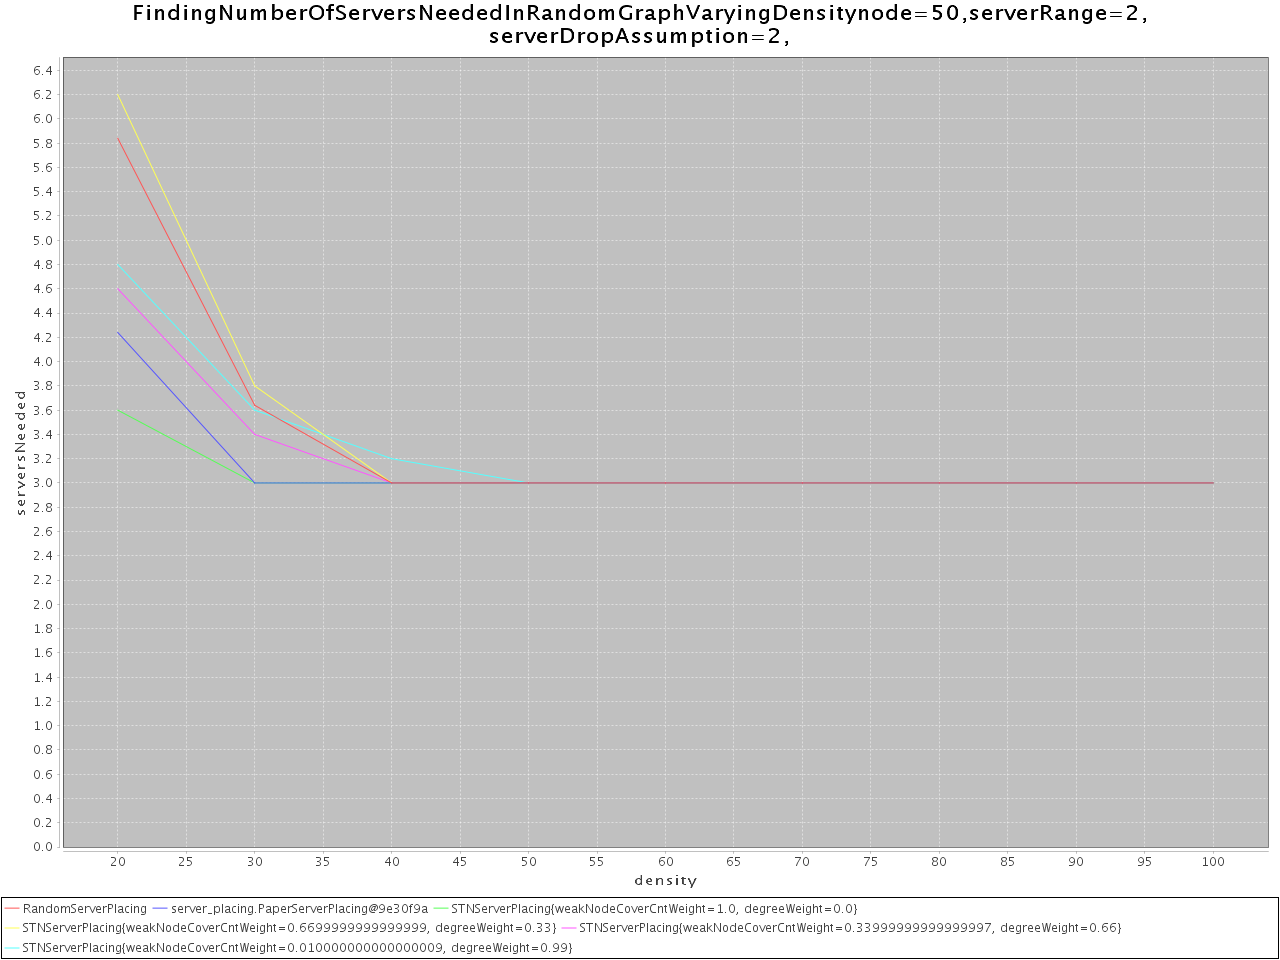
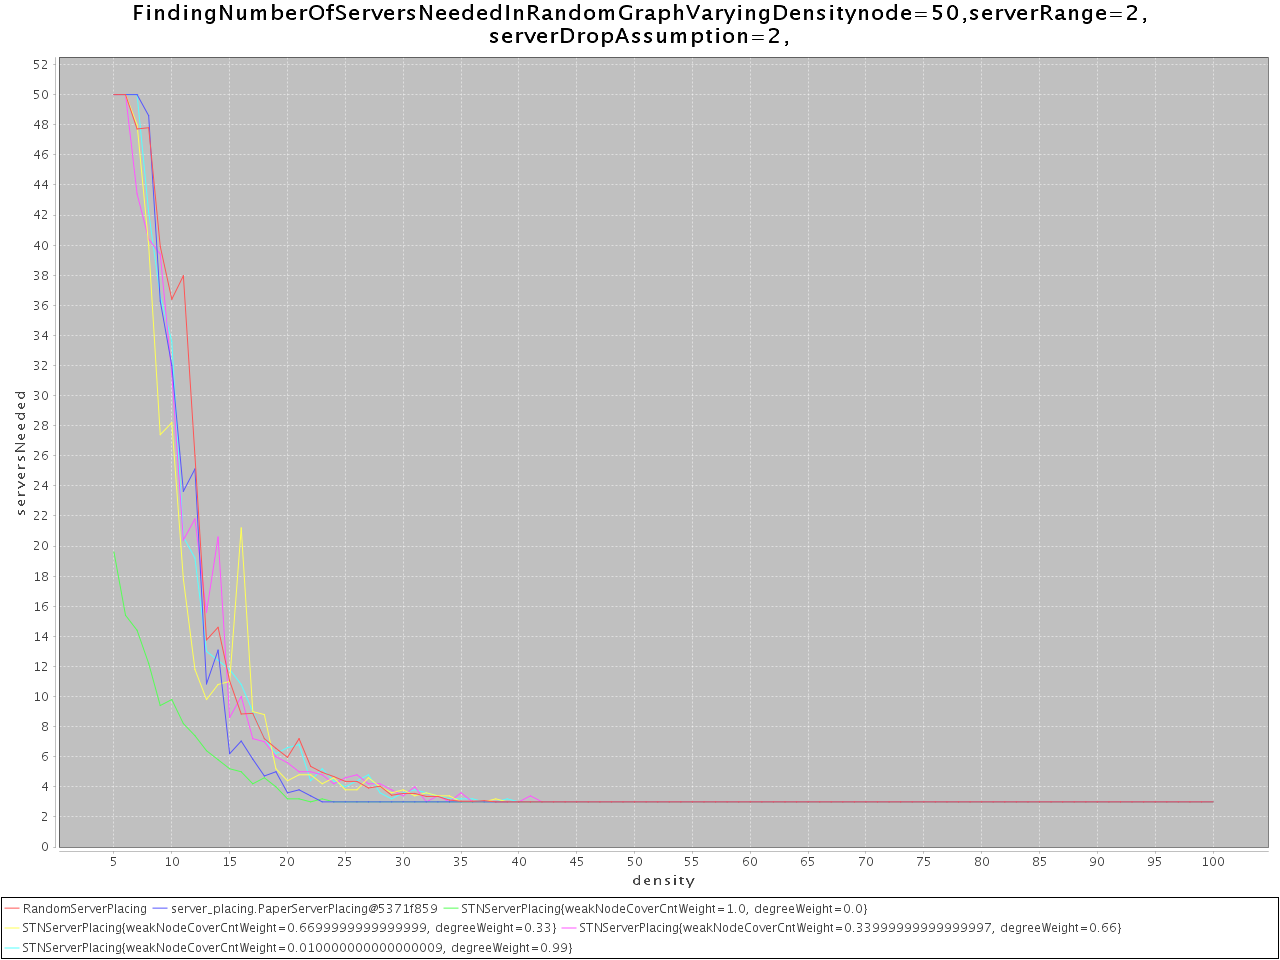
Incorporated Tonmoy's implementation of HybridServerPlacing. I have run simulation with the new algo. Our algorithm is better than this algorithm in almost all cases.

diff --git a/Undergrad Thesis Code/src/driver/Driver.java b/Undergrad Thesis Code/src/driver/Driver.java
@@ -16,41 +16,38 @@ public class Driver {
         int serverRange;
         Experiment experiment;
 
-//        serverRange = 1;
-//        experiment = ExperimentFactory.getFindingNumberOfServersNeededInWheelVaryingNodeCnt(serverRange);
-//        experiment.doExperimentAndSaveChartAsImage();
-//
-//
-//
-//
-//
-//
-//        serverRange = 1;
-//        experiment = ExperimentFactory.getFindingNumberOfServersNeededInStarVaryingNodeCnt(serverRange);
-//        experiment.doExperimentAndSaveChartAsImage();
-//
-//
-//        serverRange = 5;
-//        experiment = ExperimentFactory.getFindingNumberOfServersNeededInCycleVaryingNodeCnt(serverRange);
-//        experiment.doExperimentAndSaveChartAsImage();
-//
-//
-//
-//        serverRange = 5;
-//        experiment = ExperimentFactory.getFindingNumberOfServersNeededInTreeVaryingNode(serverRange);
-//        experiment.doExperimentAndSaveChartAsImage();
+        serverRange = 1;
+        experiment = ExperimentFactory.getFindingNumberOfServersNeededInWheelVaryingNodeCnt(serverRange);
+        experiment.doExperimentAndSaveChartAsImage();
+
+
+
+        serverRange = 1;
+        experiment = ExperimentFactory.getFindingNumberOfServersNeededInStarVaryingNodeCnt(serverRange);
+        experiment.doExperimentAndSaveChartAsImage();
+
+
+        serverRange = 5;
+        experiment = ExperimentFactory.getFindingNumberOfServersNeededInCycleVaryingNodeCnt(serverRange);
+        experiment.doExperimentAndSaveChartAsImage();
+
+
+
+        serverRange = 5;
+        experiment = ExperimentFactory.getFindingNumberOfServersNeededInTreeVaryingNode(serverRange);
+        experiment.doExperimentAndSaveChartAsImage();
 
 
 
 
 
-        serverRange = 2;
-        for (int nodeCnt = 50; nodeCnt <= 200; nodeCnt += 25)
-        {
-            experiment =
-                    ExperimentFactory.getFindingNumberOfServersNeededInRandomGraphVaryingDensity(nodeCnt, serverRange);
-            experiment.doExperimentAndSaveChartAsImage();
-        }
+//        serverRange = 2;
+//        for (int nodeCnt = 50; nodeCnt <= 200; nodeCnt += 25)
+//        {
+//            experiment =
+//                    ExperimentFactory.getFindingNumberOfServersNeededInRandomGraphVaryingDensity(nodeCnt, serverRange);
+//            experiment.doExperimentAndSaveChartAsImage();
+//        }
 
 
 

diff --git a/Undergrad Thesis Code/src/simulation/experiment/FindingNumberOfServersNeeded.java b/Undergrad Thesis Code/src/simulation/experiment/FindingNumberOfServersNeeded.java
@@ -62,7 +62,7 @@ public abstract class FindingNumberOfServersNeeded extends Experiment {
         XYSeries xySeries = new XYSeries( serverPlacing.toString() );
 
 
-        for (double varyingParameter = 20; varyingParameter <= 100; varyingParameter += 10)
+        for (double varyingParameter = 5; varyingParameter <= 100; varyingParameter += 1)
         {
             List<Integer> serverReqList = new ArrayList<Integer>();
 
